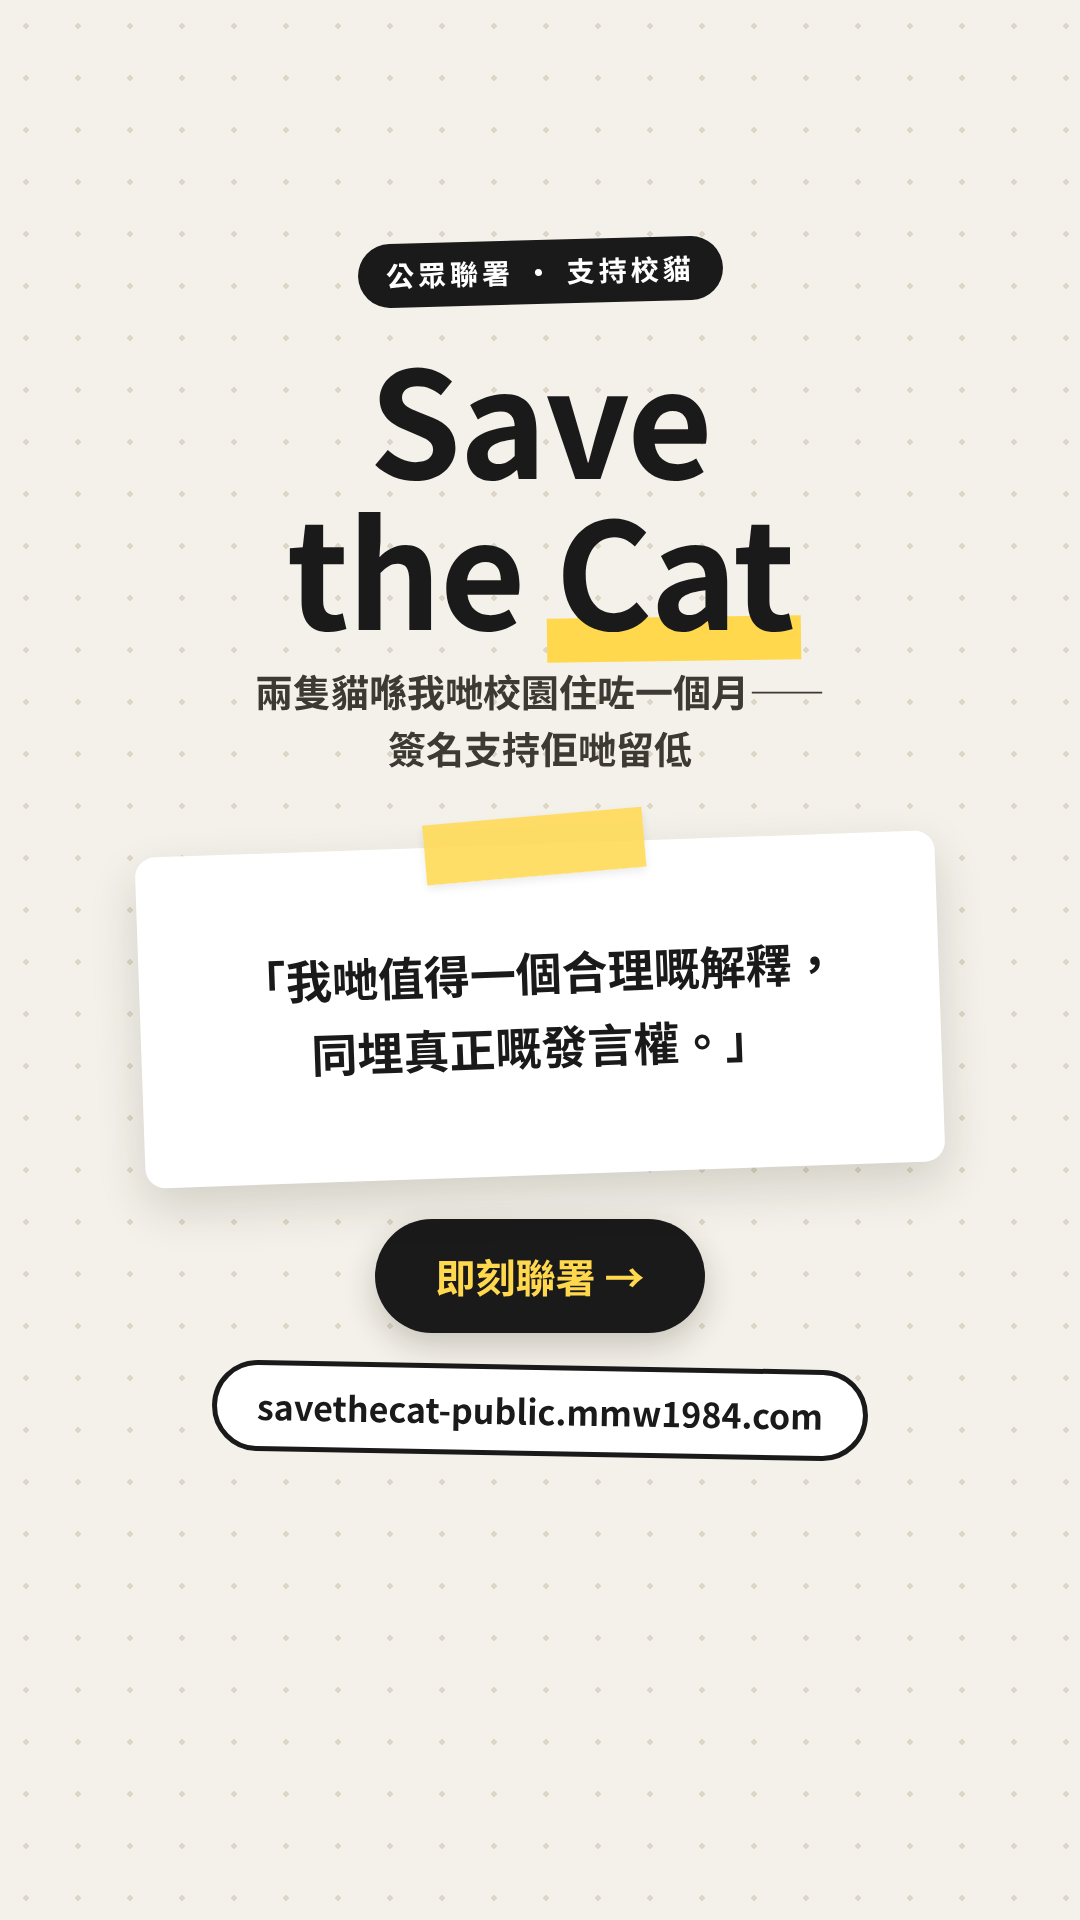
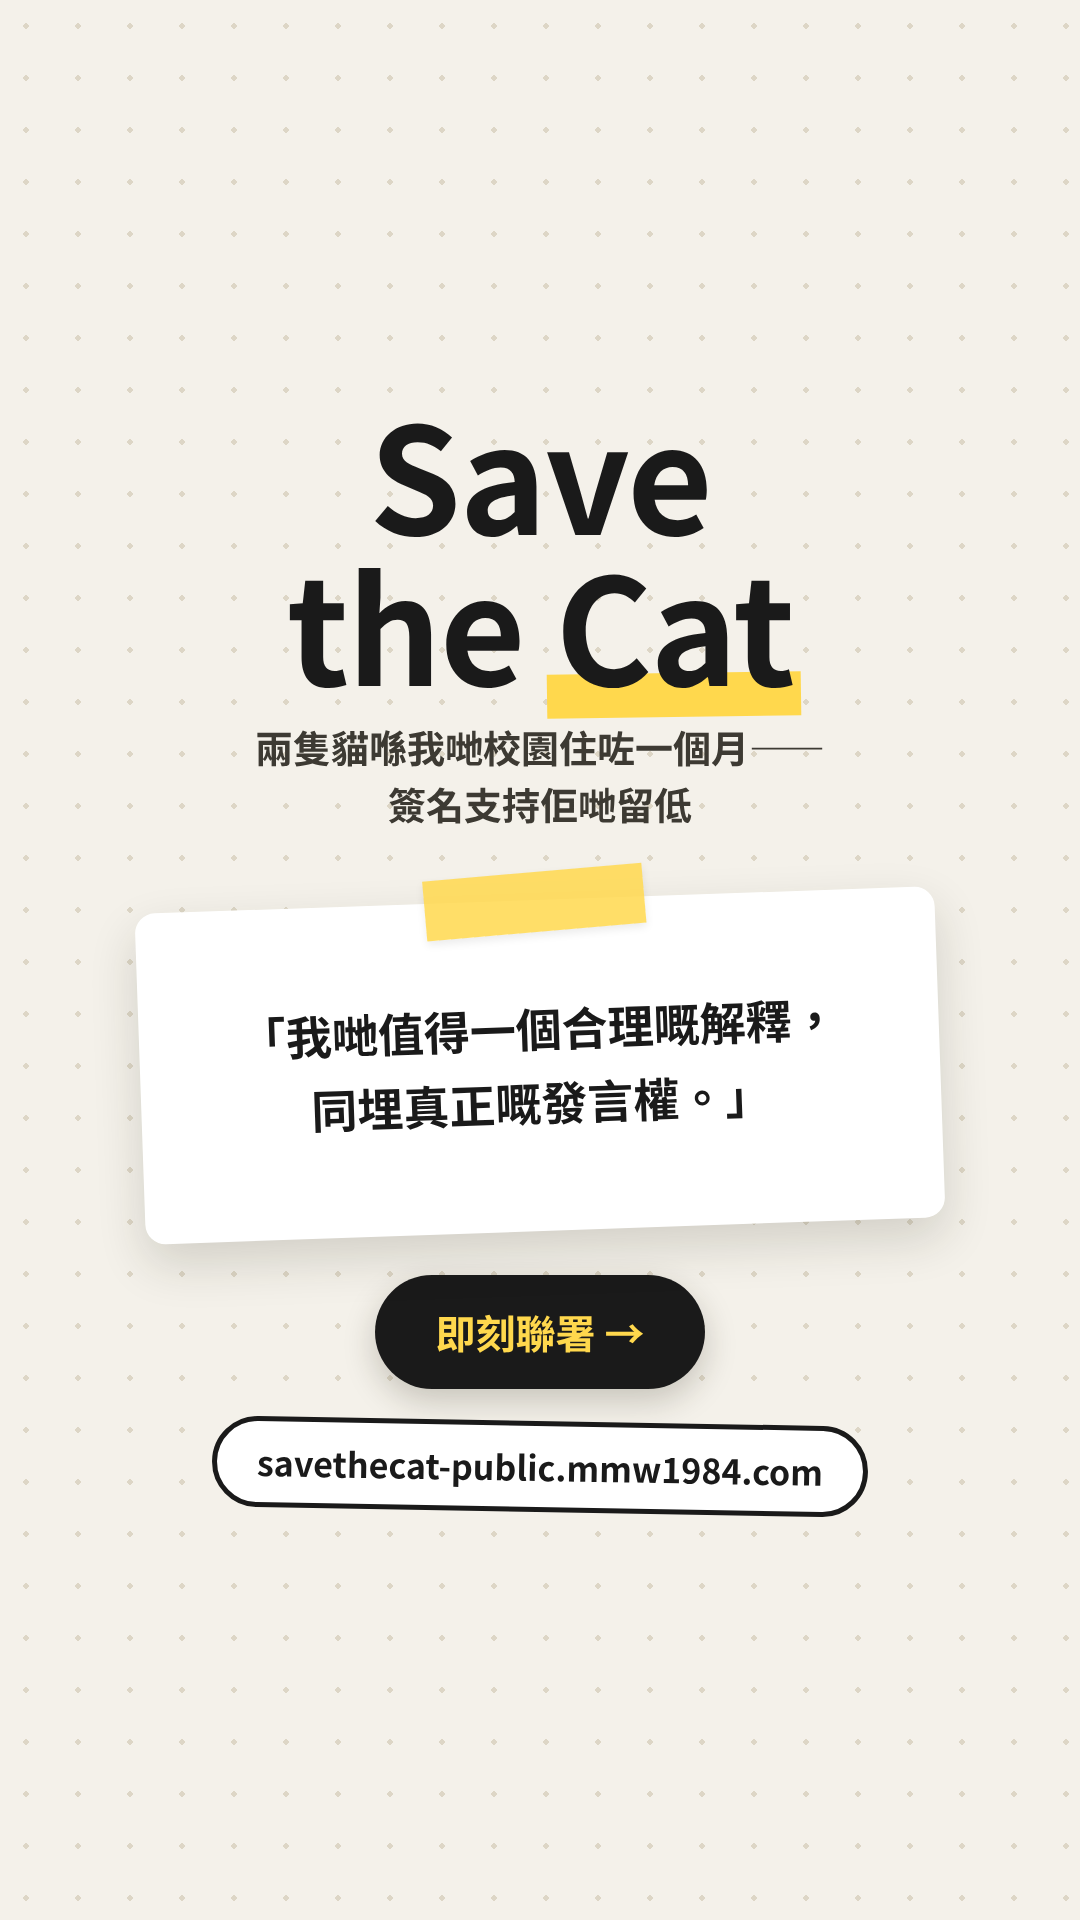
Remove kicker pill from story cards (抽走 story card 嘅標籤)
Background:
The user asked to remove the top label pill from the share card.

What changed:
- public/story-card-src.html / story-card-public-src.html: dropped the
  kicker pill and rebalanced top padding.
- public/story-card.png / story-card-public.png: re-rendered cards.

How verified: re-rendered via headless Chrome and inspected.

背景：用戶要求抽走卡片頂部標籤；重新出圖。

Changed region(s): [[0.1222, 0.125, 0.8861, 0.7812]]

diff --git a/public/story-card-src.html b/public/story-card-src.html
@@ -16,7 +16,7 @@
   }
   .card {
     width: 480px; height: 900px;
-    padding-top: 90px;
+    padding-top: 150px;
     position: relative;
     display: flex; flex-direction: column; align-items: center;
   }
@@ -78,7 +78,7 @@
 </head>
 <body>
   <div class="card">
-    <div class="kicker">何福堂書院 · 聯署行動</div>
+    
     <h1>Save<br>the <span class="hl">Cat</span></h1>
     <div class="sub">兩隻貓喺我哋校園住咗一個月——<br>簽名支持佢哋留低</div>
     <div class="tape-block">

diff --git a/public/story-card-public-src.html b/public/story-card-public-src.html
@@ -16,7 +16,7 @@
   }
   .card {
     width: 480px; height: 900px;
-    padding-top: 90px;
+    padding-top: 150px;
     position: relative;
     display: flex; flex-direction: column; align-items: center;
   }
@@ -78,7 +78,7 @@
 </head>
 <body>
   <div class="card">
-    <div class="kicker">公眾聯署 · 支持校貓</div>
+    
     <h1>Save<br>the <span class="hl">Cat</span></h1>
     <div class="sub">兩隻貓喺我哋校園住咗一個月——<br>簽名支持佢哋留低</div>
     <div class="tape-block">
